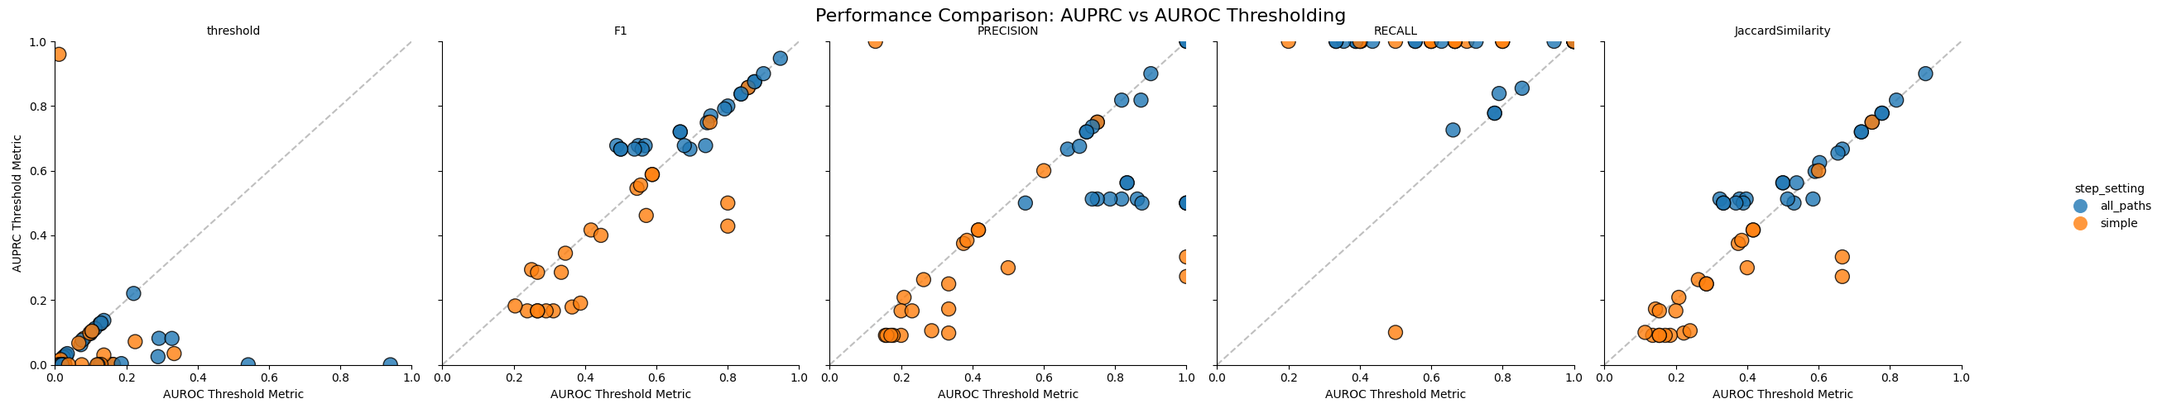
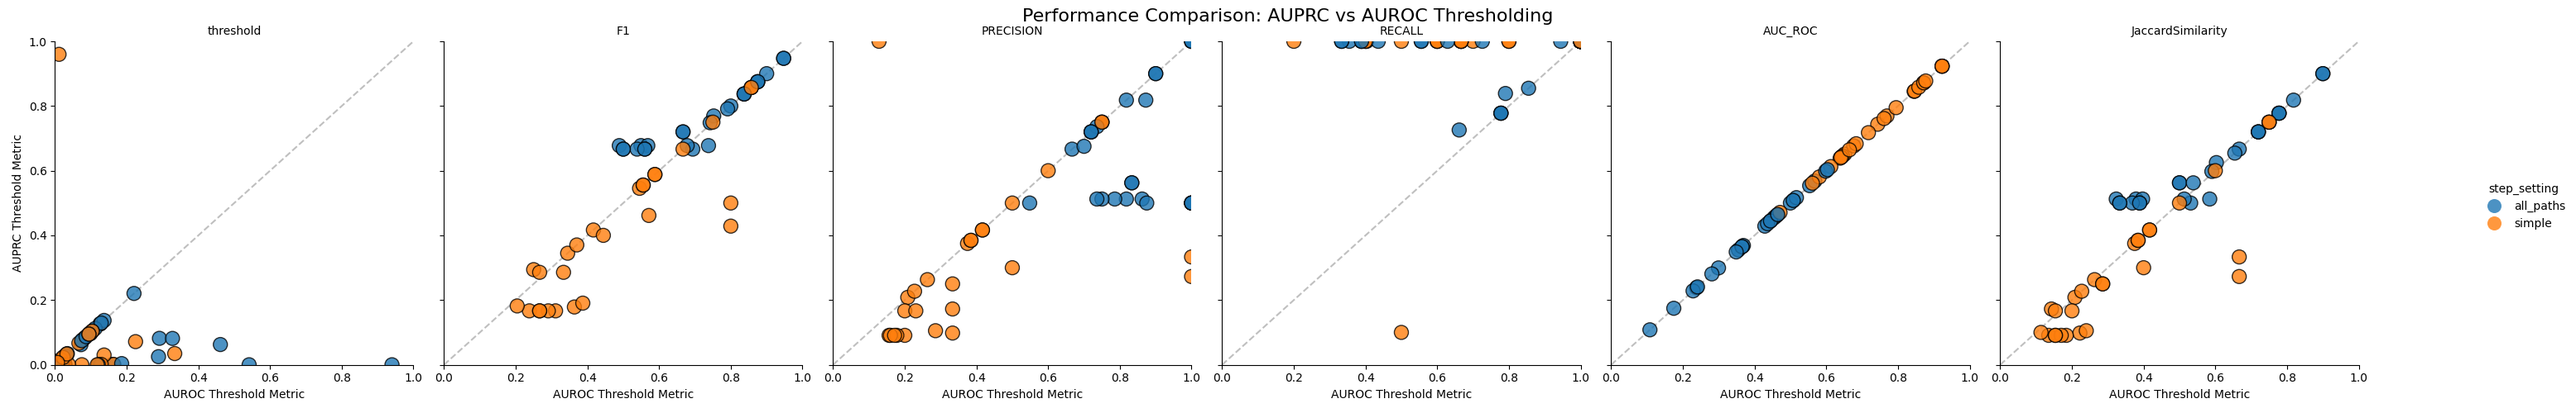
[feat] Add in AUC_ROC to the report

diff --git a/src/crispy_fishstick/database.py b/src/crispy_fishstick/database.py
@@ -371,7 +371,7 @@ class DatabaseManager:
                 if isinstance(eval_payload, str):
                     eval_payload = json.loads(eval_payload)
 
-                to_retrieve = ["f1", "auc_prc", "precision", "recall"]
+                to_retrieve = ["f1", "auc_prc", "precision", "recall", "auc_roc"]
                 for key in to_retrieve:
                     writer.writerow(
                         [
